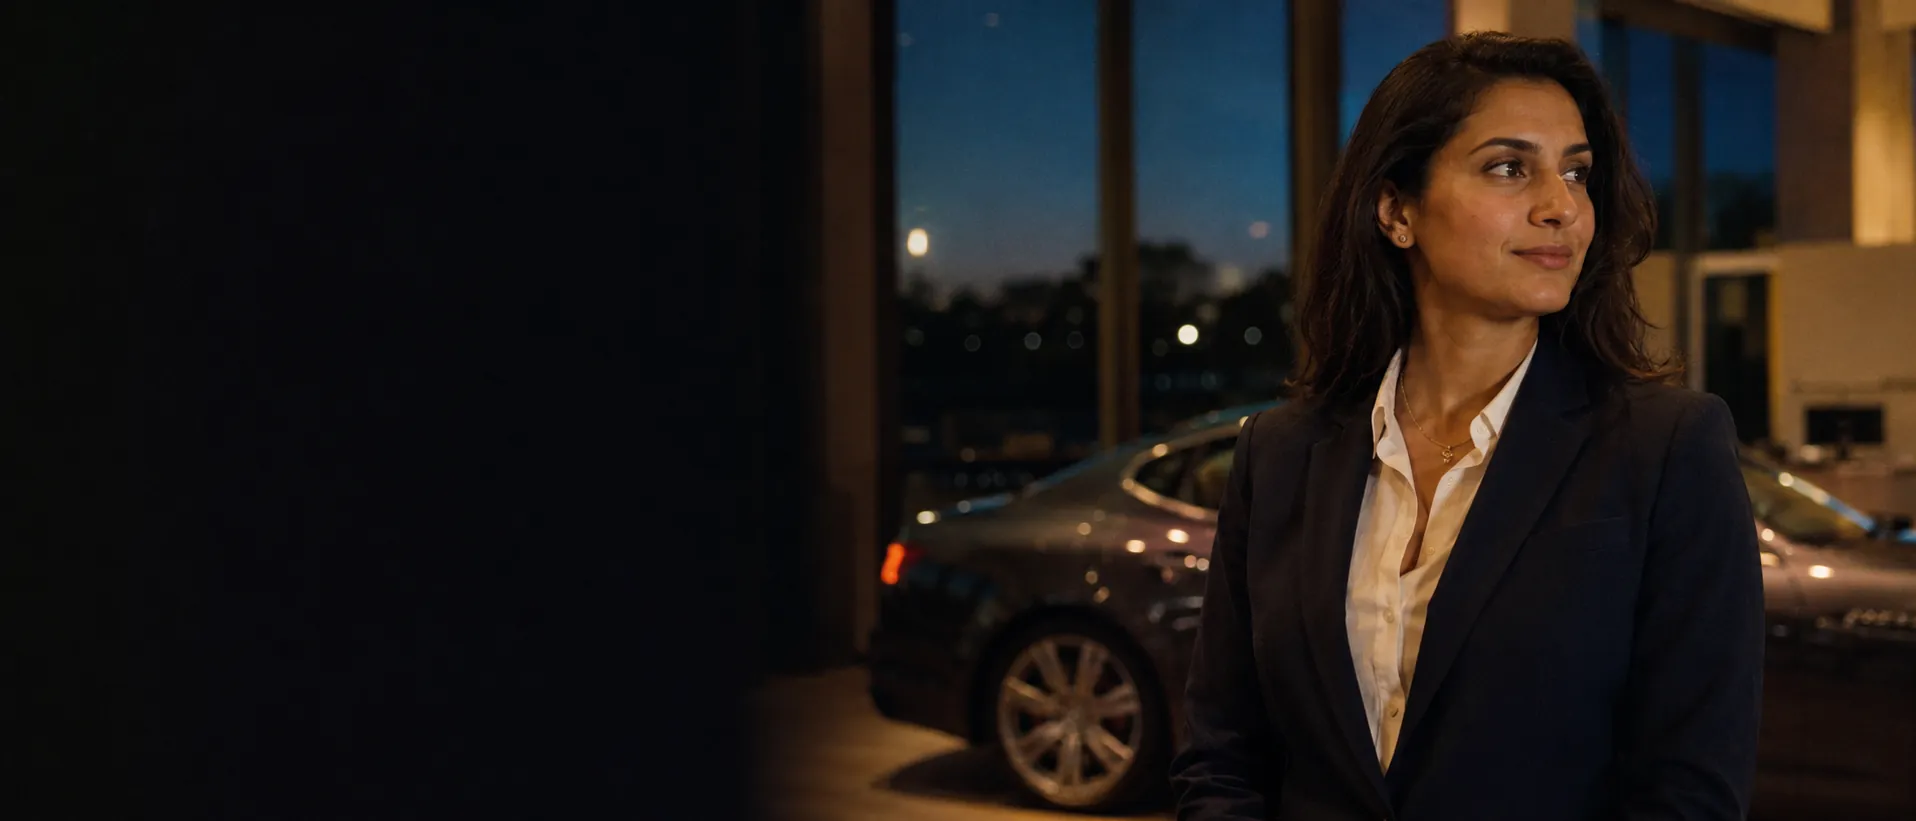
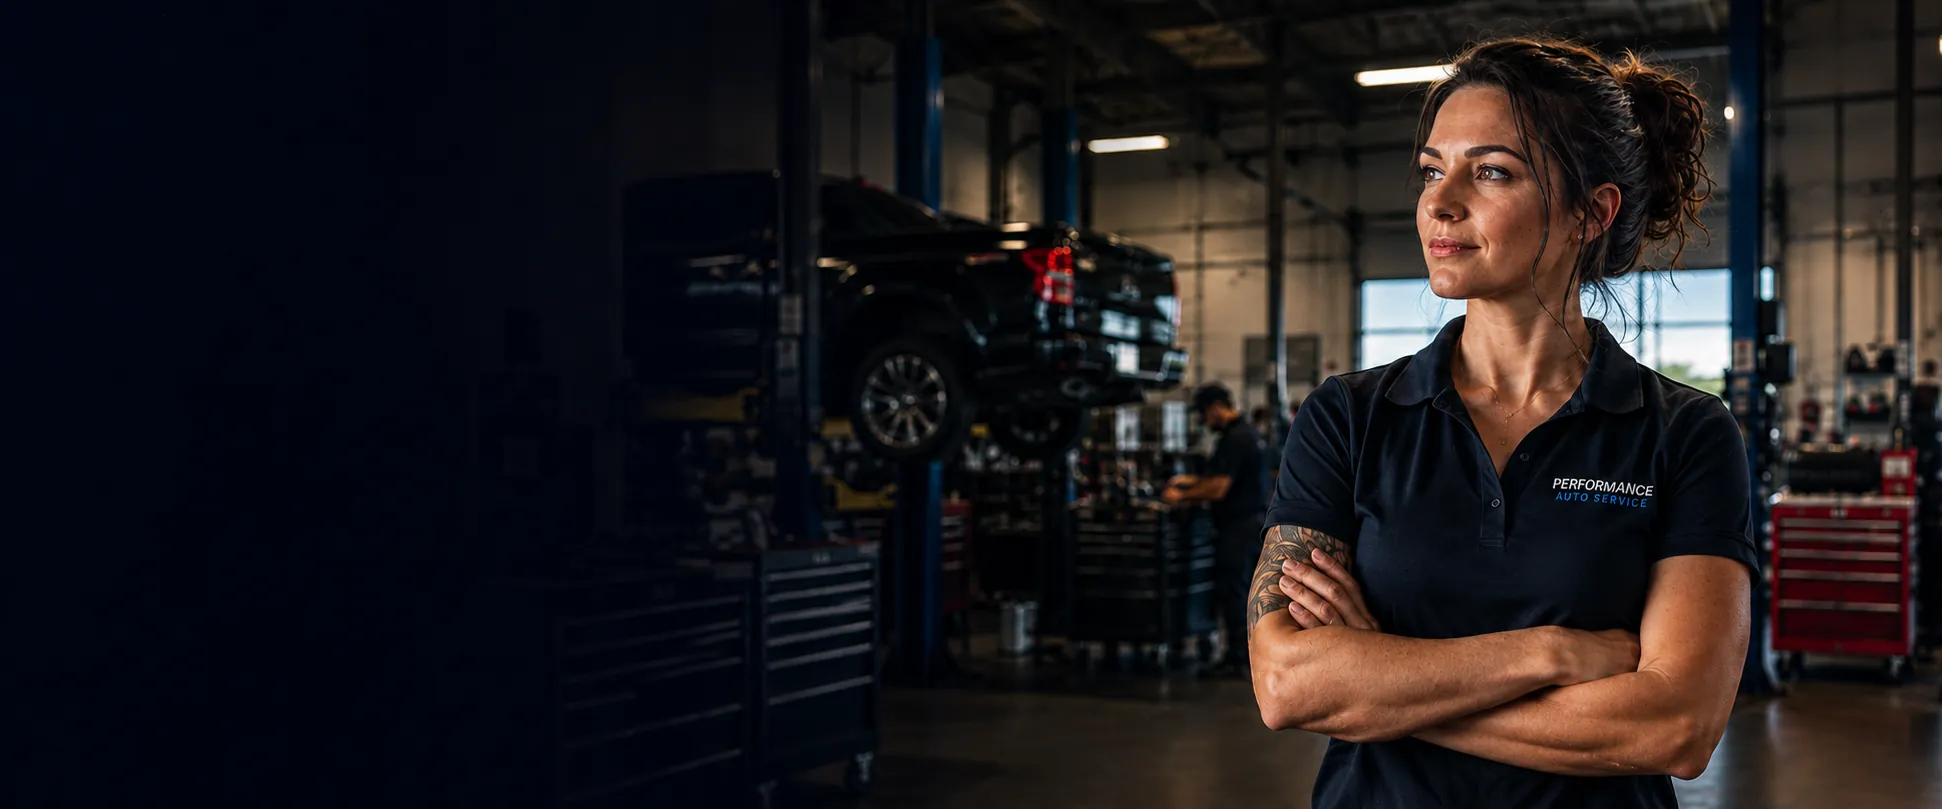
feat(automotive): wire aftermarket renders + add Control & Built-for image slots
- Replace the 4 core slot images with the new aftermarket renders: hero
  dark/light = service bay with an operator (dark left third for copy),
  process = parts counter, OG = fleet yard. Optimized JPG q82 + WebP q80
  (hero ~127/154 KB, process 186 KB, +WebP); OG -> 1200x630 PNG. Filenames
  unchanged, so the build picks them up with no markup change.
- Add two new image areas to re-balance an image-light page (only hero +
  process had images after the Feedback-04 rewrite): a S3 Control editorial
  slot and a S7 Built-for scene trio (service / parts / tire). They ship as
  styled placeholder boxes until those renders land; drop an <img> in and
  the label auto-hides.
- New CSS: .section-media, .builtfor__scenes / .builtfor__scene placeholder
  pattern. Prompts for the 4 new slots in prompts/automotive-v2.md (local).

Note: the hero and process operators read as the same person (same-face
tell) — flagged for a possible process regen, not blocking.

diff --git a/style.css b/style.css
@@ -1297,6 +1297,51 @@ p { line-height: 1.6; max-width: 65ch; }
 .process__image:has(img)::after { content: none; }
 .process__image img { width: 100%; height: 100%; object-fit: cover; }
 
+/* New framed media slots (Control editorial + Built For scene trio). Placeholder
+   boxes with a label until the aftermarket renders land (prompts in
+   prompts/automotive-v2.md). Drop in an <img> and the label auto-hides. */
+.section-media {
+  aspect-ratio: 16 / 9;
+  border-radius: var(--radius-card);
+  background-color: var(--surface-1);
+  border: 1px solid var(--border-subtle);
+  position: relative;
+  overflow: hidden;
+  margin-bottom: var(--s-9);
+}
+.builtfor__scenes {
+  display: grid;
+  grid-template-columns: 1fr;
+  gap: var(--s-4);
+  max-width: 880px;
+  margin: 0 auto var(--s-8);
+}
+@media (min-width: 768px) { .builtfor__scenes { grid-template-columns: repeat(3, 1fr); } }
+.builtfor__scene {
+  aspect-ratio: 4 / 5;
+  border-radius: var(--radius-card-sm);
+  background-color: var(--surface-1);
+  border: 1px solid var(--border-subtle);
+  position: relative;
+  overflow: hidden;
+}
+.section-media::after,
+.builtfor__scene::after {
+  content: attr(data-ph);
+  position: absolute;
+  inset: 0;
+  display: grid;
+  place-items: center;
+  color: var(--text-muted);
+  font-size: var(--type-caption);
+  padding: var(--s-5);
+  text-align: center;
+}
+.section-media:has(img)::after,
+.builtfor__scene:has(img)::after { content: none; }
+.section-media img,
+.builtfor__scene img { width: 100%; height: 100%; object-fit: cover; }
+
 .process__steps {
   display: grid;
   grid-template-columns: 1fr;

diff --git a/index.html b/index.html
@@ -174,6 +174,9 @@
           <p class="control__intro" data-reveal data-reveal-delay="2">Three things become yours the day you sign:</p>
         </div>
 
+        <!-- Editorial media slot — placeholder until the aftermarket render lands (prompts/automotive-v2.md CONTROL) -->
+        <div class="section-media" data-reveal-media data-ph="Aftermarket operator reviewing customer data on a tablet — Phase 5 (prompts/automotive-v2.md)"></div>
+
         <div class="control__three">
           <div class="control-card" data-reveal>
             <span class="control-card__title">Your customer.</span>
@@ -344,6 +347,13 @@
           <h2 data-reveal-words>
             Built for any automotive business with <em class="accent">recurring customers</em> and card volume.
           </h2>
+        </div>
+
+        <!-- Scene trio — breadth of the aftermarket. Placeholders until renders land (prompts/automotive-v2.md BUILTFOR-1/2/3) -->
+        <div class="builtfor__scenes" data-reveal>
+          <div class="builtfor__scene" data-ph="Service &amp; repair bay — Phase 5"></div>
+          <div class="builtfor__scene" data-ph="Parts &amp; accessories counter — Phase 5"></div>
+          <div class="builtfor__scene" data-ph="Tire &amp; quick-lube floor — Phase 5"></div>
         </div>
 
         <!-- Built-for audience list -->
